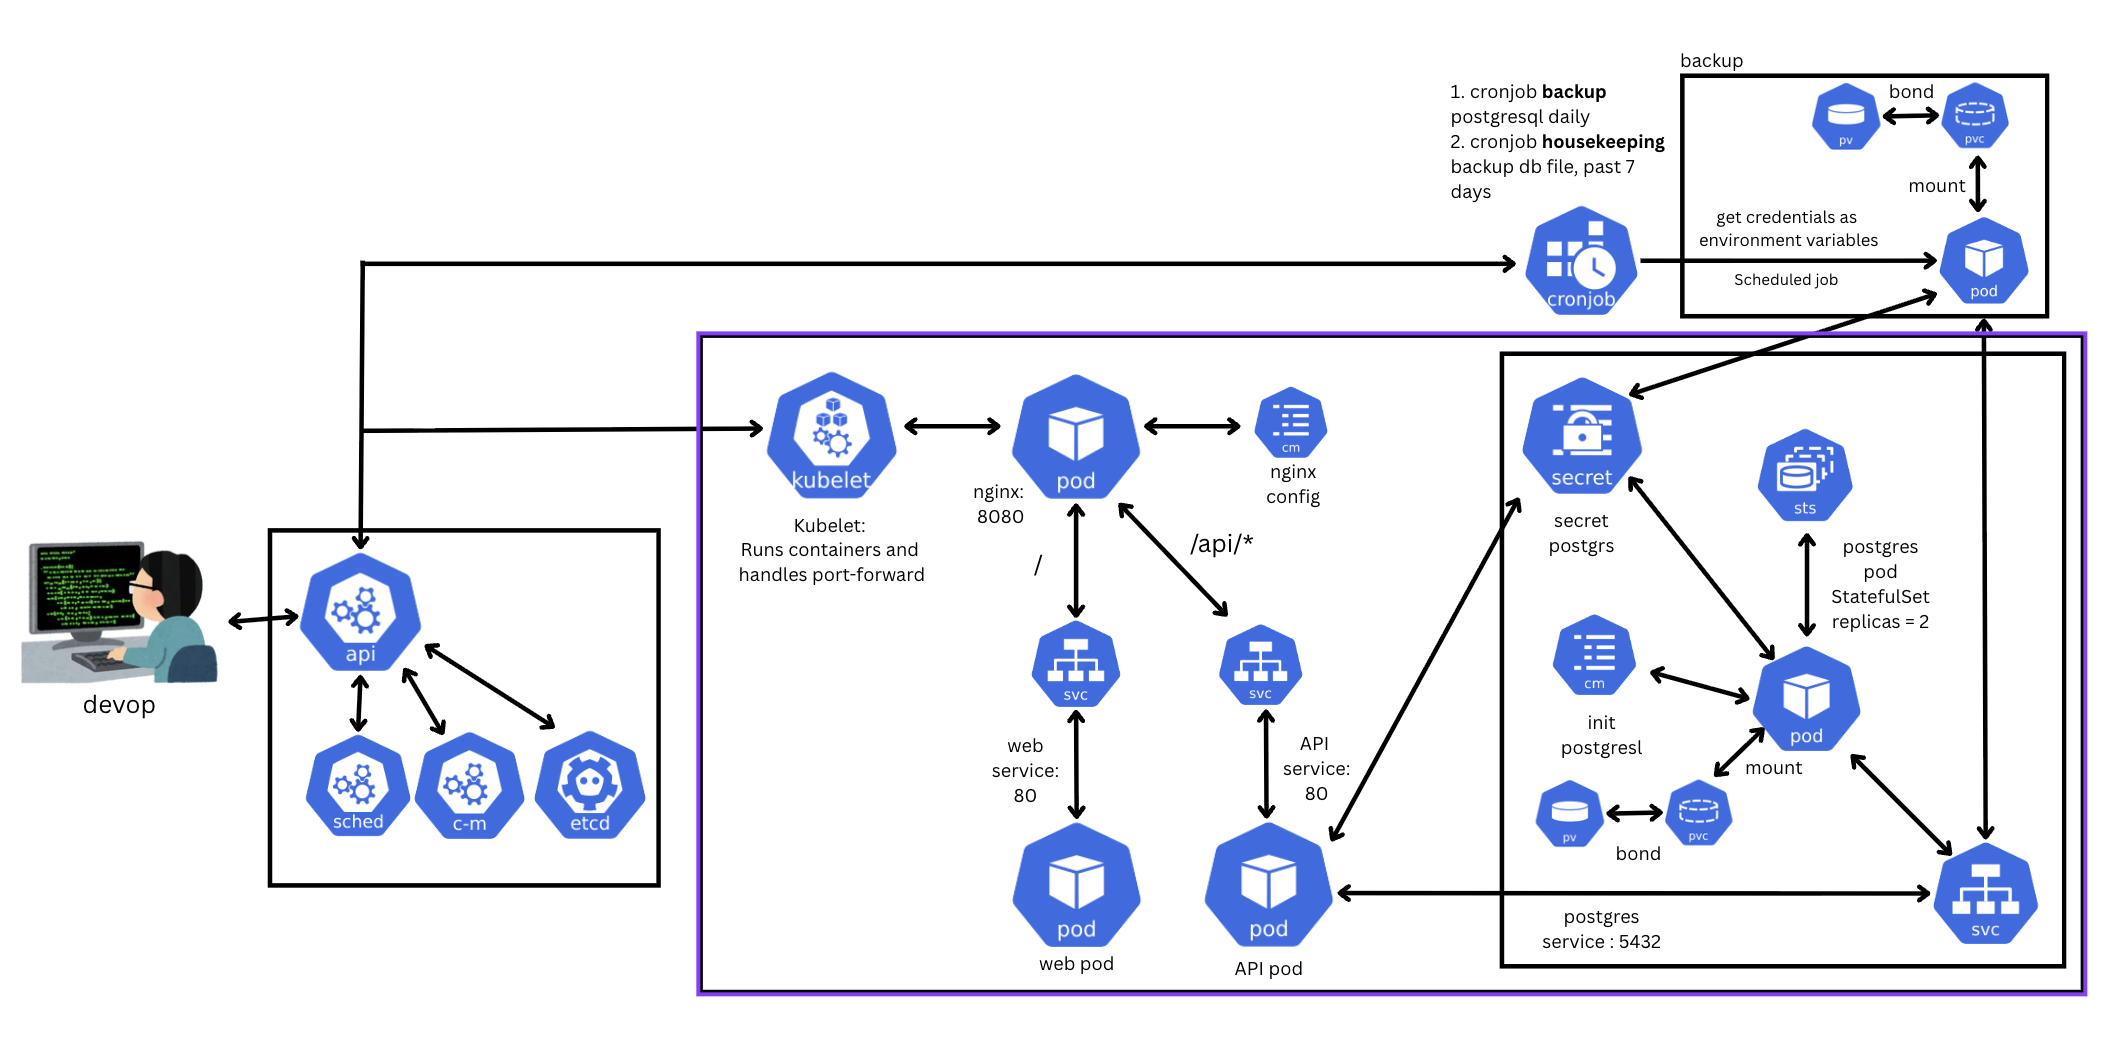
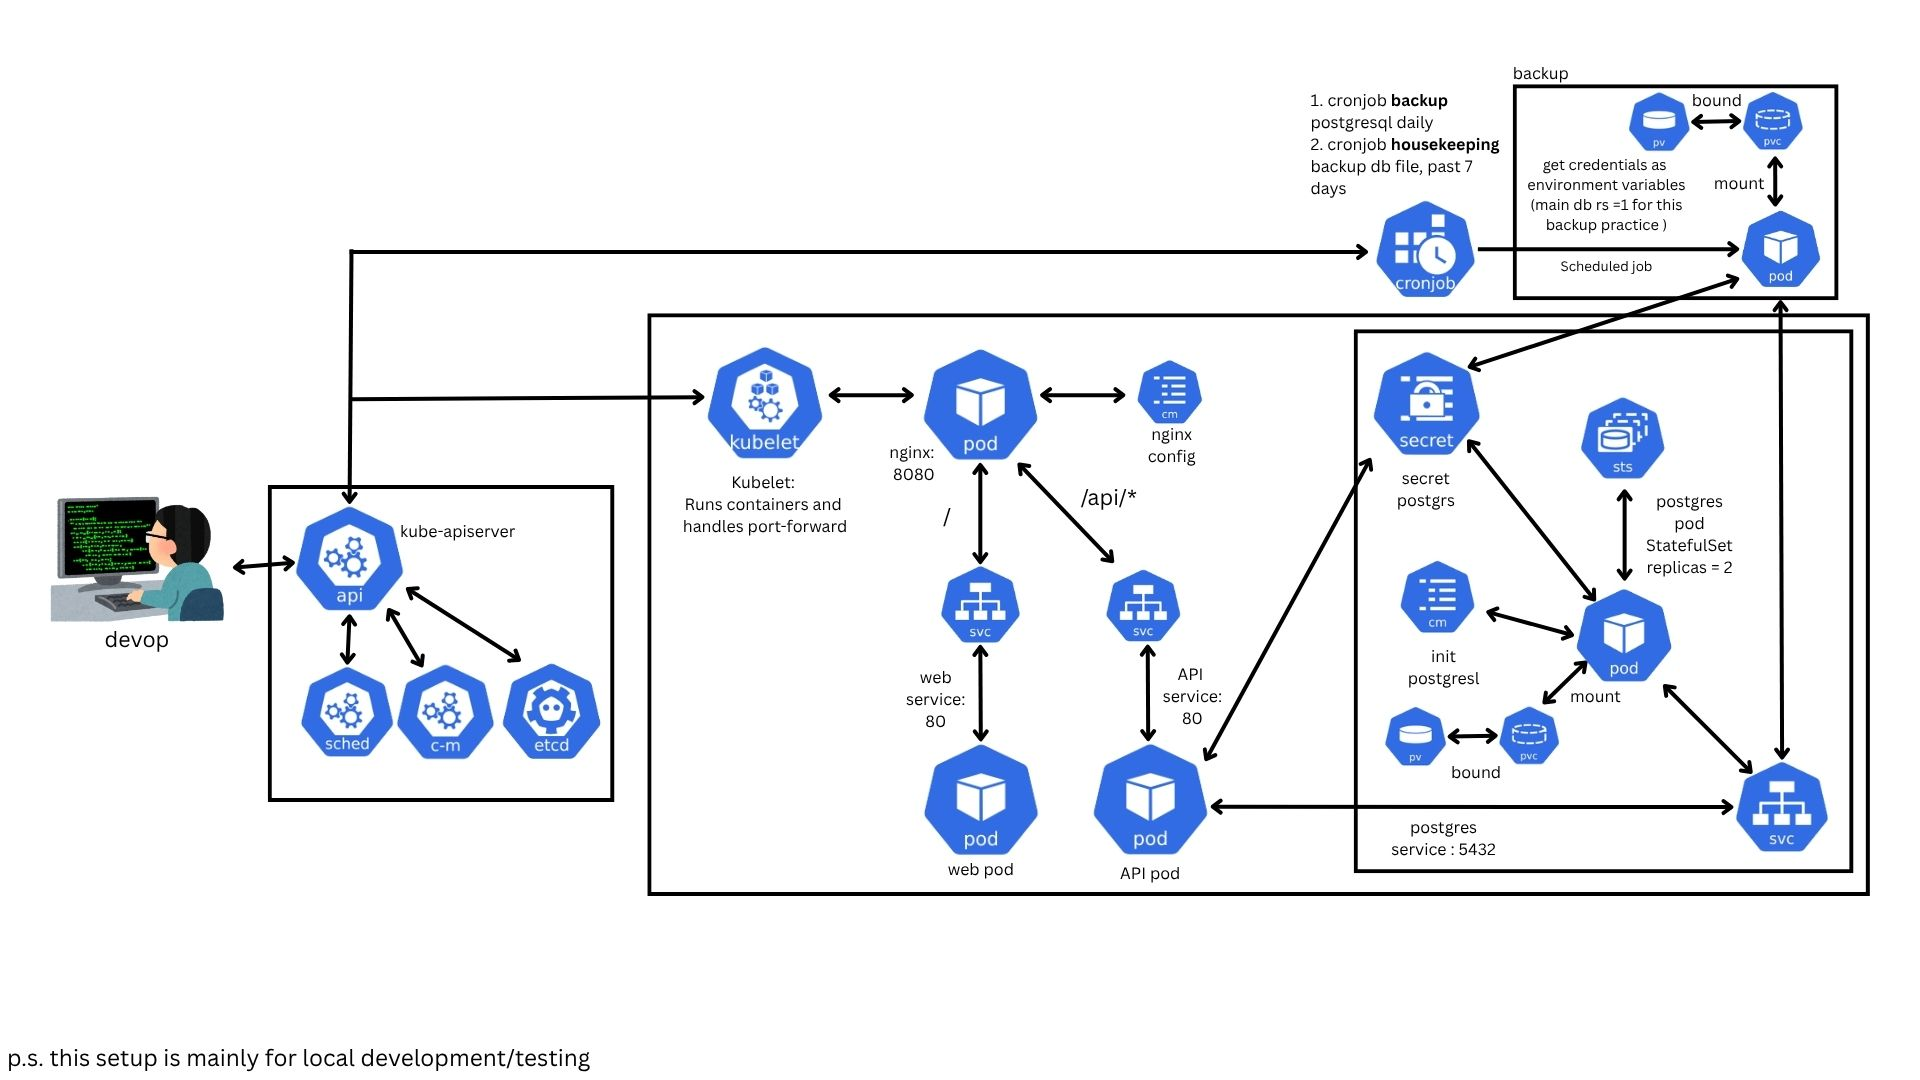
Feat/addscriptstopkube (#9)

Changed region(s): [[0.0, 0.061, 1.0, 0.9752], [0.0, 0.9752, 0.3125, 1.0]]

diff --git a/README.md b/README.md
@@ -56,13 +56,35 @@ backup PVC and a CronJob scheduled for 02:00 Bangkok time. It is suspended by
 default. Each run uses `pg_dump`, then removes completed backups older than
 7 days. Test backup and restore before enabling the schedule.
 
-## Stop or clean up
+## Stop and resume
 
-Press **Ctrl+C** to stop port-forward. To pause Minikube:
+Stop Kind and its explicitly targeted port-forwards for the day. Database and
+backup volumes are preserved; other Docker applications keep running.
+
+```bash
+bash scripts/local-cluster.sh stop
+```
+
+To resume, start Docker Desktop if needed, then run:
+
+```bash
+bash scripts/local-cluster.sh start
+kubectl --context=kind-kind -n demo-dev port-forward svc/nginx 3000:80
+```
+
+Open **http://localhost:3000** and keep port-forward running.
+Use `KIND_CLUSTER_NAME=my-cluster` with the script for a different Kind cluster.
+
+For Minikube:
 
 ```bash
 minikube stop -p microservices-k8s
+# Resume later
+bash scripts/minikube.sh
+kubectl --context=microservices-k8s -n demo-dev port-forward svc/nginx 3000:80
 ```
+
+## Remove the app
 
 To remove this app from Kind, including its database and backup volume claims/data:
 
